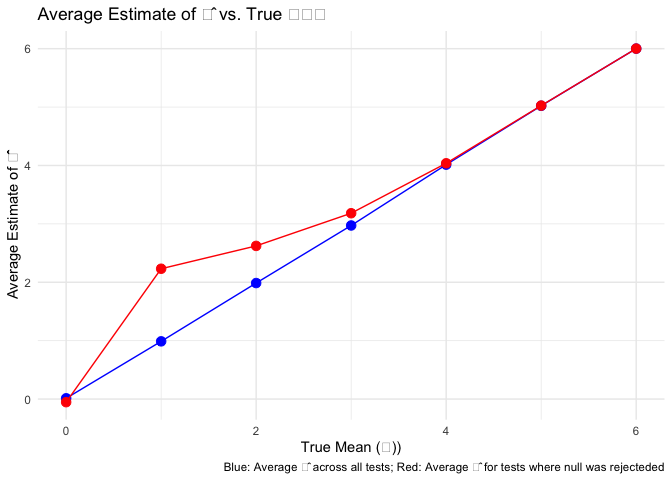
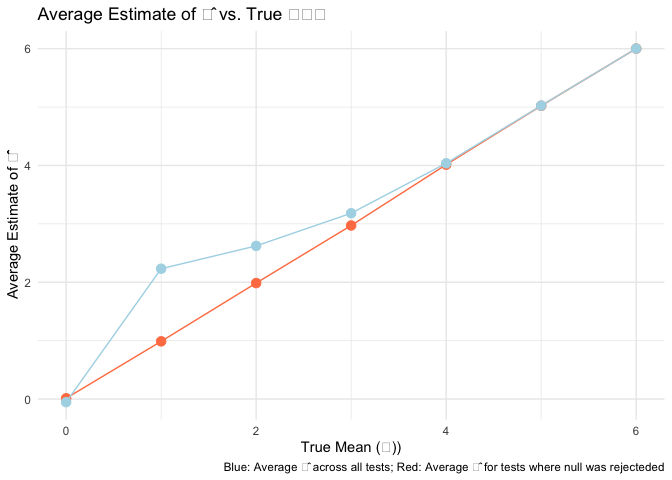
changing to a data frame and plotting graphs

diff --git a/p8105_hw5_iah2124.md b/p8105_hw5_iah2124.md
@@ -144,7 +144,28 @@ simulate_estimates <- function(mu) {
 }
 
 estimates <- sapply(mu_values, simulate_estimates)
+
+estimates_df <- tibble(
+  mu = mu_values,
+  avg_sample_mean = estimates[1, ],
+  avg_sample_mean_rejected = estimates[2, ]
+)
+
+ggplot(estimates_df, aes(x = mu)) +
+  geom_point(aes(y = avg_sample_mean), color = "coral", size = 3) +
+  geom_line(aes(y = avg_sample_mean), color = "coral") +
+  geom_point(aes(y = avg_sample_mean_rejected), color = "lightblue", size = 3) +
+  geom_line(aes(y = avg_sample_mean_rejected), color = "lightblue") +
+  labs(
+    title = "Average Estimate of 𝜇̂ vs. True 𝜇",
+    x = "True Mean (𝜇)",
+    y = "Average Estimate of 𝜇̂",
+    caption = "Blue: Average 𝜇̂ across all tests; Red: Average 𝜇̂ for tests where null was rejected"
+  ) +
+  theme_minimal()
 ```
+
+![](p8105_hw5_iah2124_files/figure-gfm/unnamed-chunk-5-1.png)<!-- -->
 
 Is the sample average of 𝜇̂ across tests for which the null is rejected
 approximately equal to the true value of 𝜇? Why or why not?
